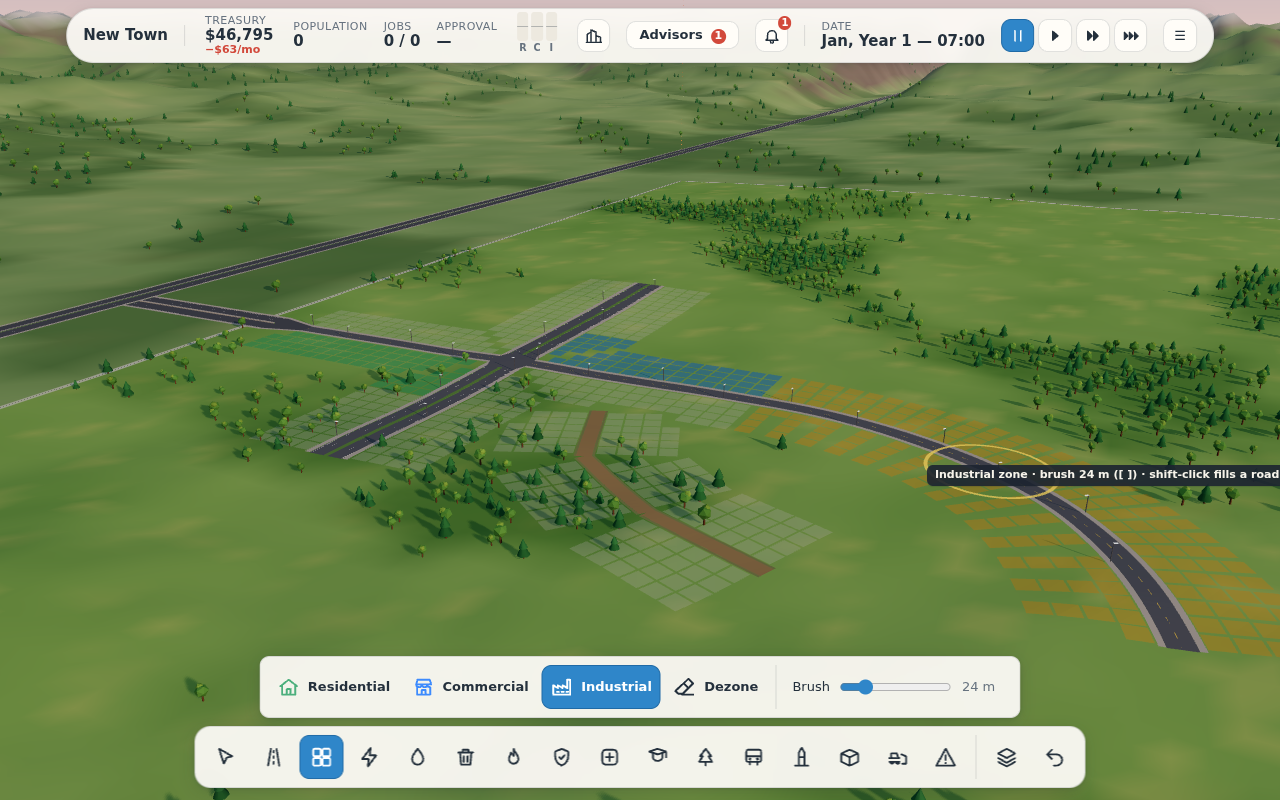
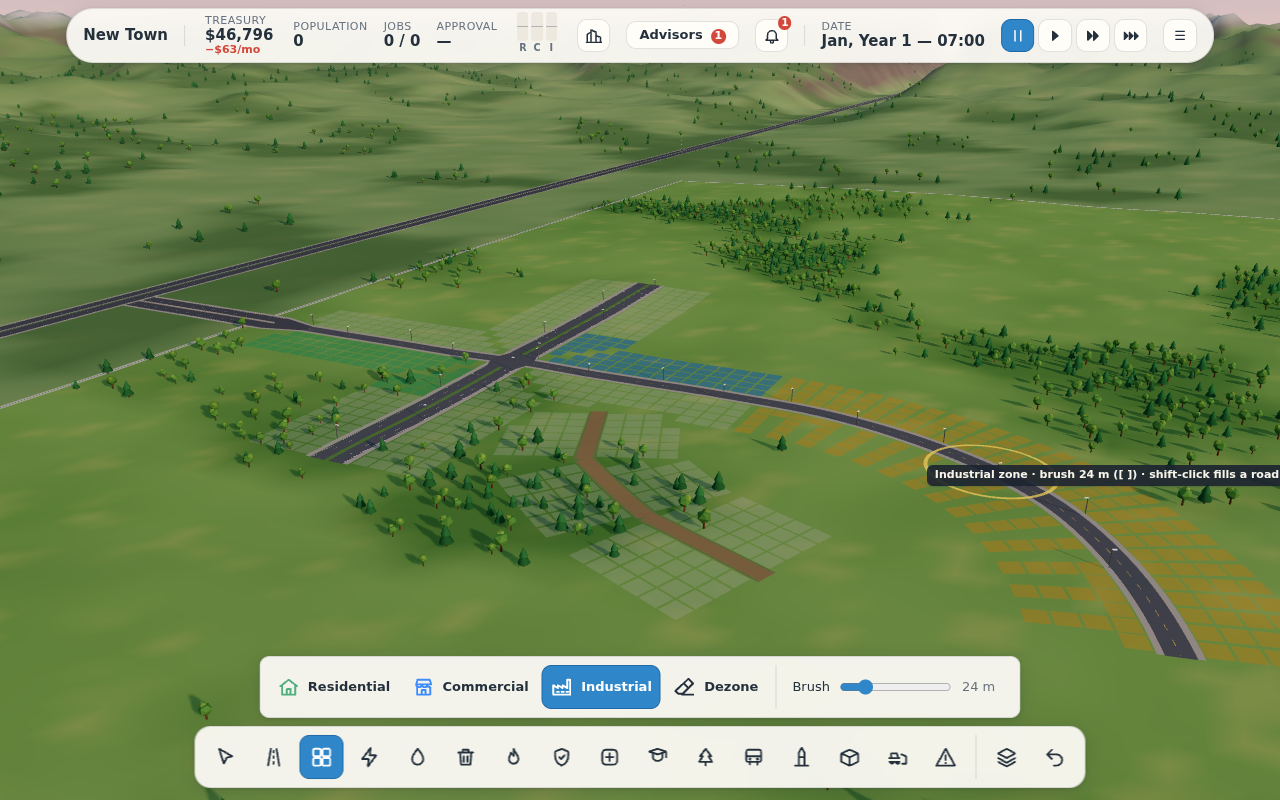
M12: fix finished buildings drawing only shadows in a new city
three.js caches shader programs by the onBeforeCompile source, which was the same text for the
plain and the clipped (construction) building materials. In a player's first city the
construction sites compile first, and finished buildings and civic buildings then reused the
clipped program, which discarded every fragment: only their shadows showed. Each variant now has
its own customProgramCacheKey.

Found by the playthrough. M2 now builds in the player's order (construction drawn first) and checks
with a new test API, drawnPixels(), that buildings and civics are really drawn; it fails without
the fix. M2 hashes after saving (saving settles a matching round in progress). The playthrough's
tutorial step check tolerates the "let time run" step finishing early.

Claude-Session: https://claude.ai/code/session_01XW8DbmKrRef35JRd9CiaPb

diff --git a/src/client/testApi.ts b/src/client/testApi.ts
@@ -87,6 +87,19 @@ export interface TestApi {
   renderSounds(): Promise<SoundCheck[]>;
   /** Visible meshes per top-level scene object, and how many of them cast shadows (dev). */
   renderBreakdown(): { name: string; meshes: number; shadow: number }[];
+  /**
+   * How many sampled pixels of the current view a top-level scene object changes when it's shown.
+   * Shadows are frozen for both renders, so this counts only the object's own drawing.
+   */
+  drawnPixels(name: string): number;
+  /** The meshes in one top-level scene object (by name): visibility, size and bounds (dev). */
+  inspectGroup(name: string): {
+    name: string;
+    visible: boolean;
+    triangles: number;
+    sphere: [number, number, number, number] | null;
+    material: string;
+  }[];
   /** Game shell state: menu or city, open screens, settings and what the renderer applied. */
   getShell(): {
     mode: 'menu' | 'play';
@@ -237,6 +250,60 @@ export function installTestApi(game: Game): TestApi {
         });
         return { name: o.name || `${o.type}#${i}`, meshes, shadow };
       }),
+    drawnPixels: (name) => {
+      const r = game.renderer;
+      const group = r.scene.children.find((o) => o.name === name);
+      if (!group) return 0;
+      // Render to the canvas itself (an offscreen target would compile different shader programs)
+      // and read it back straight away, sampling every 4th pixel each way.
+      const gl = r.renderer.getContext();
+      const [w, h] = [gl.drawingBufferWidth, gl.drawingBufferHeight];
+      const read = () => {
+        r.renderer.setRenderTarget(null);
+        r.renderer.render(r.scene, r.camera);
+        const px = new Uint8Array(w * h * 4);
+        gl.readPixels(0, 0, w, h, gl.RGBA, gl.UNSIGNED_BYTE, px);
+        return px;
+      };
+      const [visible, autoUpdate] = [group.visible, r.renderer.shadowMap.autoUpdate];
+      r.renderer.shadowMap.autoUpdate = false;
+      group.visible = false;
+      const without = read();
+      group.visible = true;
+      const shown = read();
+      group.visible = visible;
+      r.renderer.shadowMap.autoUpdate = autoUpdate;
+      let n = 0;
+      for (let y = 0; y < h; y += 4)
+        for (let x = 0; x < w; x += 4) {
+          const i = (y * w + x) * 4;
+          const d =
+            Math.abs(shown[i]! - without[i]!) +
+            Math.abs(shown[i + 1]! - without[i + 1]!) +
+            Math.abs(shown[i + 2]! - without[i + 2]!);
+          if (d > 24) n++;
+        }
+      return n;
+    },
+    inspectGroup: (name) => {
+      const group = game.renderer.scene.children.find((o) => o.name === name);
+      const out: ReturnType<TestApi['inspectGroup']> = [];
+      group?.traverse((o) => {
+        const m = o as Mesh;
+        if (!m.isMesh) return;
+        const g = m.geometry;
+        const s = g.boundingSphere;
+        const tris = (g.index ? g.index.count : (g.getAttribute('position')?.count ?? 0)) / 3;
+        out.push({
+          name: m.name,
+          visible: m.visible,
+          triangles: Math.round(tris),
+          sphere: s ? [s.center.x, s.center.y, s.center.z, s.radius] : null,
+          material: (m.material as { type?: string }).type ?? '?',
+        });
+      });
+      return out;
+    },
     getShell: () => ({
       mode: game.mode,
       screens: [...game.screens],

diff --git a/e2e/m2-growth.spec.ts b/e2e/m2-growth.spec.ts
@@ -7,6 +7,16 @@ test('M2: a town grows from zoning, buildings can be inspected, and save/load ro
   const errs = watchErrors(page);
   await openGame(page);
   await buildTownViaApi(page);
+  // As in a player's first city, the first construction sites are drawn before anything is finished
+  // (their shader once got reused for finished buildings, which then drew nothing).
+  const sites = await page.evaluate(async () => {
+    const g = window.__game!;
+    g.setCamera({ x: 200, z: (await g.getState()).highwayZ, distance: 420, yaw: 0.3, tilt: 0.2 });
+    for (let k = 0; k < 24 && !g.getBuildings().some((b) => b.state === 0); k++) await g.advance(60);
+    await g.waitFrames(2);
+    return g.getBuildings().filter((b) => b.state === 0).length;
+  });
+  expect(sites).toBeGreaterThan(0);
   await serveTownViaApi(page);
   // Run the clock for real for a moment at top speed, then fast-forward.
   await page.getByTestId('speed-3').click();
@@ -30,6 +40,13 @@ test('M2: a town grows from zoning, buildings can be inspected, and save/load ro
     cz,
   );
   await shot(page, 'm2-town');
+  // Finished homes and the civic buildings are really drawn (not just their shadows).
+  const drawn = await page.evaluate(() => ({
+    buildings: window.__game!.drawnPixels('buildings'),
+    civics: window.__game!.drawnPixels('civics'),
+  }));
+  expect(drawn.buildings).toBeGreaterThan(200);
+  expect(drawn.civics).toBeGreaterThan(20);
 
   // Click a grown house to inspect it.
   const target = await page.evaluate(() =>
@@ -48,11 +65,12 @@ test('M2: a town grows from zoning, buildings can be inspected, and save/load ro
   await page.keyboard.press('Escape');
   await expect(page.getByTestId('inspector')).toBeHidden();
 
-  // Save, reload into the save, and compare state hashes.
-  const hashBefore = await page.evaluate(() => window.__game!.hash());
+  // Save, reload into the save, and compare state hashes. (Saving settles a commute-matching round
+  // in progress, so the city is hashed after the save, as it carries on.)
   await page.getByTestId('menu-button').click();
   await page.getByTestId('menu-save').click();
   await expect(page.getByTestId('toast')).toContainText('Saved');
+  const hashBefore = await page.evaluate(() => window.__game!.hash());
   errs.check();
   await page.goto('/?load=quick&paused=1');
   await page.waitForFunction(() => window.__game?.ready === true, null, { timeout: 90_000 });

diff --git a/e2e/playthrough.spec.ts b/e2e/playthrough.spec.ts
@@ -225,7 +225,8 @@ test('playthrough: a first city from the main menu to a thriving town @playthrou
   await page.getByTestId('tool-select').click();
 
   // Let time run until the first families arrive; the tutorial's last card points at the advisors.
-  await expect(page.getByTestId('tutorial')).toContainText('Let time run');
+  // (The step ticks itself off if the first families have already arrived while we built.)
+  await expect(page.getByTestId('tutorial')).toContainText(/Let time run|Keep the city happy/);
   await page.getByTestId('speed-1').click();
   await page.evaluate(() => window.__game!.advance(600));
   await expect(page.getByTestId('tutorial')).toContainText('Keep the city happy', { timeout: 30_000 });
@@ -309,6 +310,9 @@ test('playthrough: a first city from the main menu to a thriving town @playthrou
     cz,
   );
   await shot(page, 'year-1');
+  // The homes, shops and factories are really drawn, not just their shadows.
+  expect(await page.evaluate(() => window.__game!.drawnPixels('buildings'))).toBeGreaterThan(200);
+  expect(await page.evaluate(() => window.__game!.drawnPixels('civics'))).toBeGreaterThan(20);
 
   // The budget, the advisors and a data map, through the top bar and toolbar.
   await page.getByTestId('open-budget').click();

diff --git a/src/render/buildings.ts b/src/render/buildings.ts
@@ -34,6 +34,10 @@ export function buildingYaw(b: { angle: number; side: number }): number {
 
 export function makeMaterial(uniforms: BuildingUniforms, terrain: TerrainUniforms, clip: boolean): Material {
   const mat = new MeshLambertMaterial({ vertexColors: true });
+  // three.js caches programs by the onBeforeCompile source, which is the same text for both
+  // variants: without distinct keys, whichever compiled first (in a new city, the clipped
+  // construction one) was reused for the other, and finished buildings drew nothing.
+  mat.customProgramCacheKey = () => (clip ? 'building-clip' : 'building');
   mat.onBeforeCompile = (shader) => {
     Object.assign(shader.uniforms, uniforms, {
       uOverlay: terrain.uOverlay,

diff --git a/docs/DECISIONS.md b/docs/DECISIONS.md
@@ -169,6 +169,8 @@ One line each: what was decided and why. Newest at the bottom of each section.
 - Terrain generator version 2 (new cities): hills fade to about 4 m within ~450–1050 m of the highway entrance. The final playthrough found that on a third of random river seeds a plain avenue and four side streets off the highway were partly "Too steep"; now 400 of 400 sampled seeds across the presets take them. Terrain is regenerated from the seed on load, so cities keep the version they were founded with (`GameOptions.terrain`; saves from before, v9, migrate to 1 and keep their ground).
 - A dragged road no longer chains: only click–click drawing keeps going from the last road's end. The playthrough showed that after dragging one road (as the tutorial says to), pressing to drag the next built a stray road from the old end to the new press point, and charged for it. A drag that can't be built starts over too, with the reason in a toast.
 - A road drawn along the dead ends of several streets joins every end within 2.5 m of its centre line (T-junctions), not only the ones it crosses exactly: hand-drawn street ends land a metre or two off the line, and the playthrough's "close the grid" road was rejected as too close to them.
+- Fixed (found by the playthrough): in a new city, finished buildings and civic buildings drew only their shadows. three.js keys shader programs on the `onBeforeCompile` source text, identical for the plain and the clipped (construction) building materials, so whichever compiled first served both; a player's first construction sites compile the clipped one, which discards everything above ground for meshes without its clip attribute. Each variant now has its own `customProgramCacheKey`. Test towns built through the API usually drew a civic building first, which hid it; M2 now reproduces the player's order and checks, by reading the canvas with each group hidden and shown, that buildings and civics are really drawn.
+- M2 hashes the city after saving rather than before: saving settles a commute-matching round in progress, so the saved (and still running) city is the one to compare with the loaded one.
 - The school test now checks primary places (`seat1`) directly, nearest quarter all seated and farthest mostly not, instead of blended education coverage against a 0.2 margin it had cleared by 0.01; the terrain change moved the town slightly and tipped it. The property is unchanged (coverage still falls with distance, asserted too).
 - PROGRESS.md opens with the milestone checklist (CLAUDE.md) and puts the summary and ideas for what's next straight after it (SPEC §9 asks for them "at the top").
 
